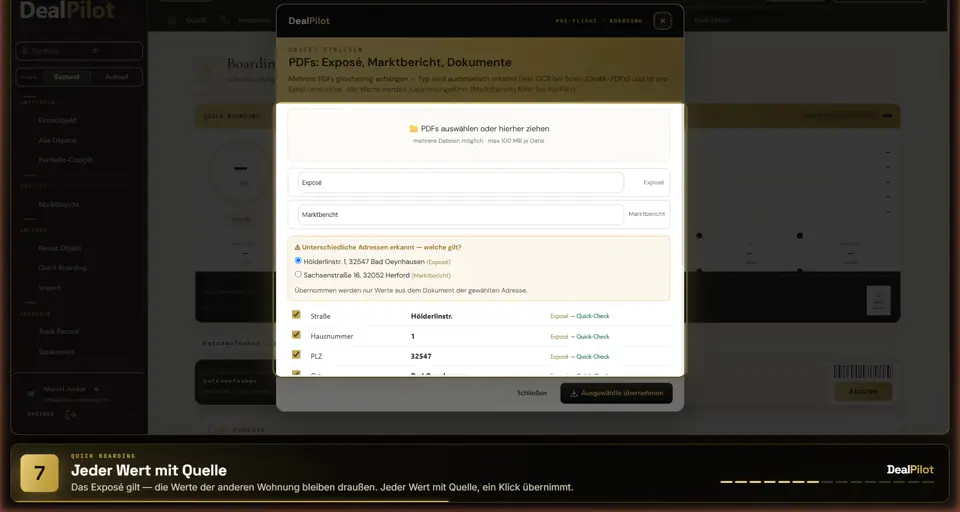
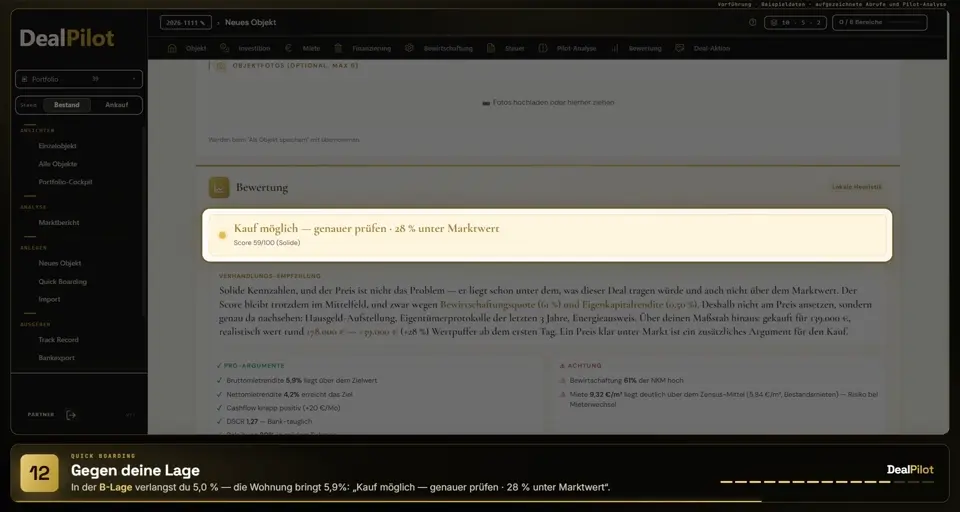
landing-videothek-3b: Ueberblick 1 (Quick Boarding) neu - Dauer 222 s, Poster, Buster

diff --git a/frontend/landing/dp2-live.js b/frontend/landing/dp2-live.js
@@ -21,7 +21,7 @@
    ═══════════════════════════════════════════════════════════════════════ */
 (function () {
   'use strict';
-  var QUELLE = 'assets/videothek/videos.json?v=landing-videothek-3a';
+  var QUELLE = 'assets/videothek/videos.json?v=landing-videothek-3b';
   var ruhig = matchMedia('(prefers-reduced-motion: reduce)').matches;
   var PLAY = '<svg viewBox="0 0 24 24" aria-hidden="true"><path d="M7 4.5v15l13-7.5z"/></svg>';
   var PAUSE = '<svg viewBox="0 0 24 24" aria-hidden="true"><path d="M6 4h4.5v16H6zM13.5 4H18v16h-4.5z"/></svg>';

diff --git a/frontend/landing/index.html b/frontend/landing/index.html
@@ -691,7 +691,7 @@
 <script src="demo-steuer-daten.js?v=v1600"></script>
 <script src="demo-wechsel.js?v=v1600"></script>
 <script src="dp2.js?v=v1570"></script>
-<script src="dp2-live.js?v=landing-videothek-3a"></script><!-- landing-videothek-1 -->
+<script src="dp2-live.js?v=landing-videothek-3b"></script><!-- landing-videothek-1 -->
 <!-- v1588: Zwei Funktionen, die der alten Landing schon gehoerten und
      hier gefehlt haben. Beide betreffen Geld, deshalb standen sie ganz
      oben auf der Abgleichsliste:

diff --git a/frontend/landing/videothek.html b/frontend/landing/videothek.html
@@ -121,6 +121,6 @@
 
 
 <script src="dp2.js?v=v1565"></script>
-<script src="dp2-live.js?v=landing-videothek-3a"></script>
+<script src="dp2-live.js?v=landing-videothek-3b"></script>
   <script src="assets/umgebung.js?v=v1644"></script><!-- v1644 · Landing zeigt auf DIE App, in der sie steht -->
 </body></html>
